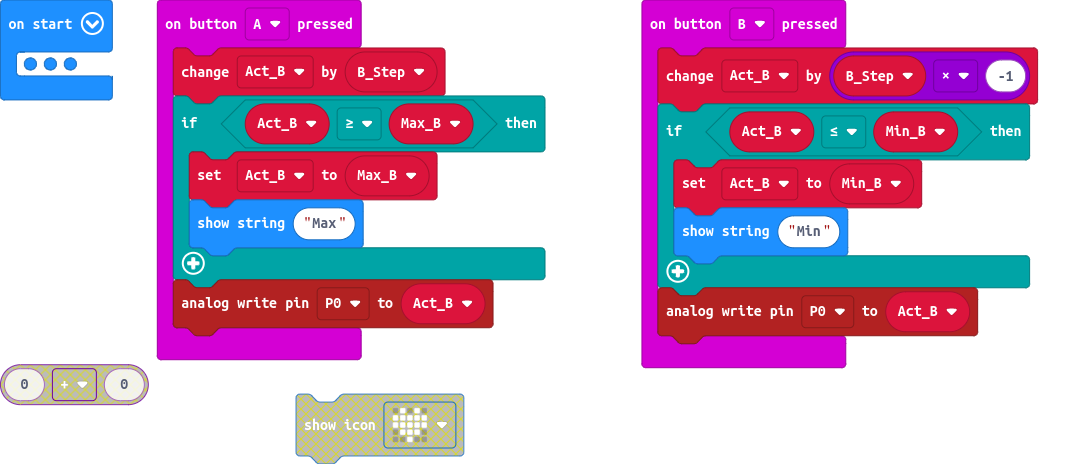
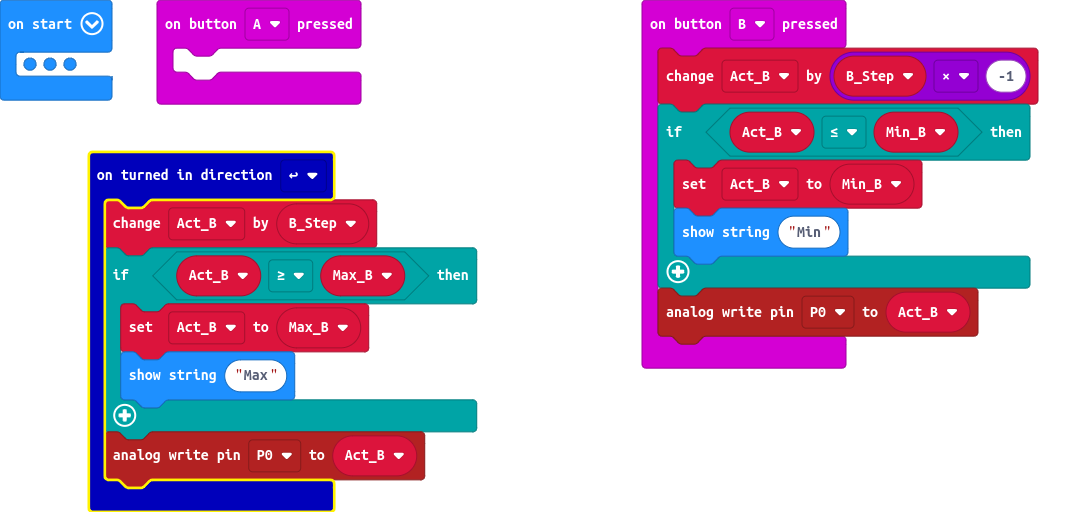
install MKlein KY40 - Test rotate to increase brightness

diff --git a/main.ts b/main.ts
@@ -1,4 +1,7 @@
 input.onButtonPressed(Button.A, function () {
+	
+})
+KY040.onTurned(direction.clockwise, function () {
     Act_B += B_Step
     if (Act_B >= Max_B) {
         Act_B = Max_B
@@ -18,7 +21,8 @@ let B_Step = 0
 let Act_B = 0
 let Max_B = 0
 let Min_B = 0
-basic.showIcon(IconNames.Giraffe)
+basic.showIcon(IconNames.Pitchfork)
+KY040.setKY040(DigitalPin.P14, DigitalPin.P15)
 Min_B = 0
 Max_B = 1023
 Act_B = 0
